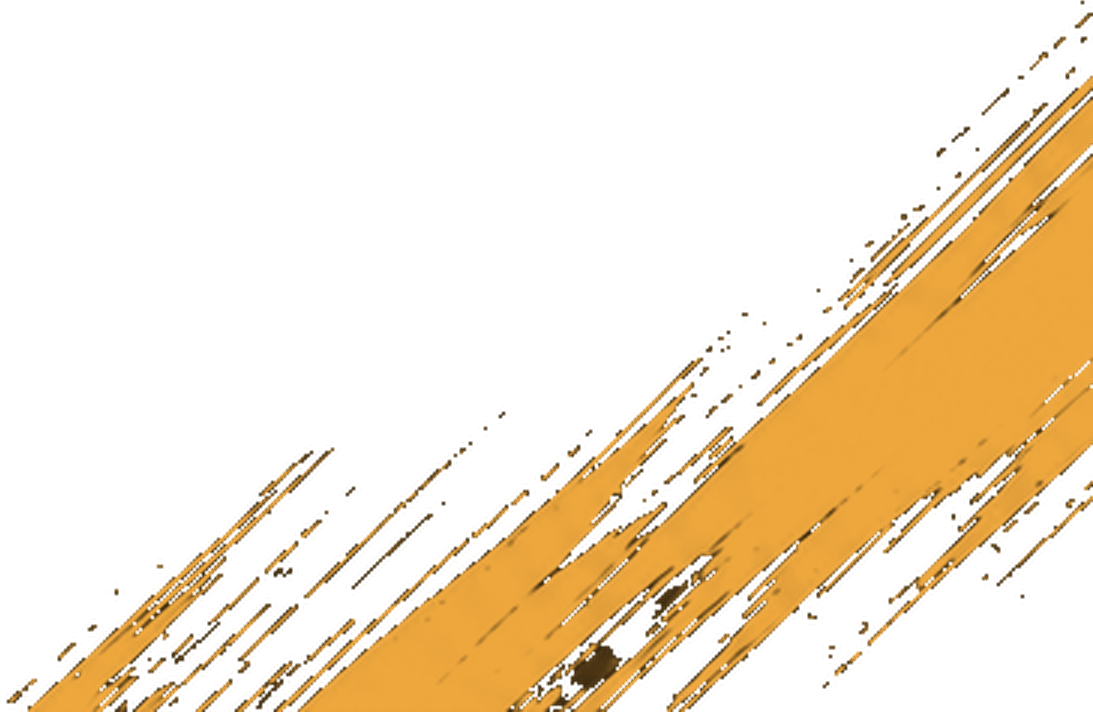
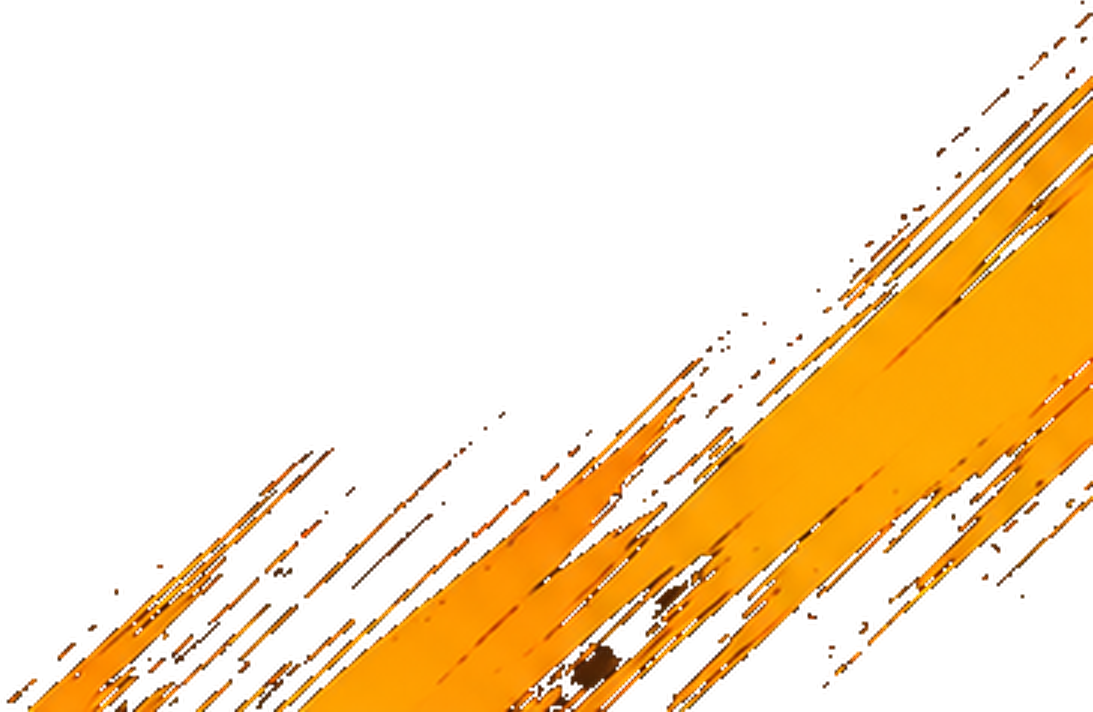
Tarjeta JR: colores y proporciones de la referencia
Claude-Session: https://claude.ai/code/session_01SPZzE7V1rF7zVSmvmfi8Vf

diff --git a/components/jr/JrCard.tsx b/components/jr/JrCard.tsx
@@ -4,7 +4,7 @@ import { FaGithub, FaLinkedinIn, FaWhatsapp } from "react-icons/fa";
 import {
   LuArrowRight,
   LuBrain,
-  LuChartColumnIncreasing,
+  LuChartNoAxesCombined,
   LuCodeXml,
   LuDownload,
   LuGlobe,
@@ -18,16 +18,16 @@ import { contact, services, type Accent } from "./jr-data";
 /** Clases por acento: el turquesa y el ámbar de la marca JR. */
 const accent: Record<Accent, { text: string; tile: string }> = {
   turquesa: {
-    text: "text-[#14E6C5]",
-    tile: "bg-[#14E6C5]/10 shadow-[0_0_22px_-6px_rgba(20,230,197,0.55)] ring-1 ring-[#14E6C5]/25",
+    text: "text-[#00F2EC]",
+    tile: "bg-[#00F2EC]/10 shadow-[0_0_22px_-6px_rgba(0,242,236,0.55)] ring-1 ring-[#00F2EC]/25",
   },
   ambar: {
-    text: "text-[#E5A13B]",
-    tile: "bg-[#E5A13B]/10 shadow-[0_0_22px_-6px_rgba(229,161,59,0.55)] ring-1 ring-[#E5A13B]/25",
+    text: "text-[#FD9B02]",
+    tile: "bg-[#FD9B02]/10 shadow-[0_0_22px_-6px_rgba(253,155,2,0.55)] ring-1 ring-[#FD9B02]/25",
   },
 };
 
-const serviceIcons: IconType[] = [LuCodeXml, LuChartColumnIncreasing, LuBrain, LuSettings];
+const serviceIcons: IconType[] = [LuCodeXml, LuChartNoAxesCombined, LuBrain, LuSettings];
 
 const links: { label: string; href: string; icon: IconType; external: boolean }[] = [
   { label: "GitHub", href: contact.github, icon: FaGithub, external: true },
@@ -67,7 +67,7 @@ export default function JrCard() {
       />
       <div
         aria-hidden="true"
-        className="pointer-events-none absolute right-[6%] top-[22%] h-[20%] w-[22%] -skew-x-[38deg] bg-gradient-to-br from-[#14E6C5]/[0.07] to-transparent"
+        className="pointer-events-none absolute right-[6%] top-[22%] h-[20%] w-[22%] -skew-x-[38deg] bg-gradient-to-br from-[#00F2EC]/[0.07] to-transparent"
       />
 
       {/* Brochazos en las esquinas */}
@@ -76,7 +76,7 @@ export default function JrCard() {
       <Brush src="brochazo-ambar-der" w={595} h={722} className="right-0 top-[12%] hidden w-[16%] lg:block" />
       <Brush src="brochazo-ambar-inf" w={1093} h={712} className="bottom-0 right-0 w-[62%] sm:w-[42%] lg:w-[31%]" />
 
-      <div className="relative mx-auto flex w-full max-w-[1120px] flex-col gap-9 px-5 pb-36 pt-14 sm:gap-11 sm:px-10 sm:pt-20 lg:pb-40">
+      <div className="relative mx-auto flex w-full max-w-[1200px] flex-col gap-9 px-5 pb-36 pt-14 sm:gap-11 sm:px-10 sm:pt-20 lg:px-8 lg:pb-40">
         {/* Encabezado */}
         <header className="flex items-center justify-center gap-4 sm:gap-9">
           <Image
@@ -92,7 +92,7 @@ export default function JrCard() {
             <h1 className="text-[1.6rem] font-bold leading-none tracking-tight sm:text-5xl lg:text-[4rem]">
               Jair Rodríguez
             </h1>
-            <p className="mt-2 text-[0.9rem] font-semibold tracking-[0.2em] text-[#14E6C5] sm:mt-4 sm:text-2xl sm:tracking-[0.25em] lg:text-[2.1rem]">
+            <p className="mt-2 text-[0.9rem] font-semibold tracking-[0.2em] text-[#00F2EC] sm:mt-4 sm:text-2xl sm:tracking-[0.25em] lg:text-[2.1rem]">
               Software Engineer
             </p>
           </div>
@@ -106,30 +106,30 @@ export default function JrCard() {
           >
             Desarrollo soluciones <br className="hidden sm:block" />
             digitales que resuelven <br className="hidden sm:block" />
-            <em className="font-bold text-[#14E6C5]">
+            <em className="font-bold text-[#00F2EC]">
               necesidades reales <br className="hidden sm:block" />
               de negocio.
             </em>
           </h2>
-          <span aria-hidden="true" className="mt-6 block h-1.5 w-28 rounded-full bg-[#E5A13B] sm:w-40" />
+          <span aria-hidden="true" className="mt-6 block h-1.5 w-28 rounded-full bg-[#FD9B02] sm:w-40" />
         </section>
 
         {/* Servicios */}
         <section aria-label="Servicios">
-          <ul className="grid grid-cols-2 gap-3 sm:gap-5 lg:grid-cols-4">
+          <ul className="grid grid-cols-2 gap-3 sm:gap-5 lg:grid-cols-4 lg:gap-6">
             {services.map((s, i) => {
               const Icon = serviceIcons[i];
               const a = accent[s.accent];
               return (
                 <li
                   key={s.title}
-                  className="flex flex-col rounded-[1.6rem] border border-white/[0.08] bg-gradient-to-b from-[#1D1D1D] to-[#161616] p-4 shadow-[0_18px_34px_-20px_rgba(0,0,0,1)] sm:p-6"
+                  className="flex flex-col rounded-[1.6rem] border border-white/[0.1] bg-gradient-to-b from-[#242424] to-[#171717] p-4 shadow-[0_18px_34px_-20px_rgba(0,0,0,1)] sm:p-6"
                 >
-                  <span className={`grid size-12 place-items-center rounded-2xl sm:size-16 ${a.tile} ${a.text}`}>
-                    <Icon aria-hidden="true" strokeWidth={2.2} className="size-7 sm:size-9" />
+                  <span className={`grid size-14 place-items-center rounded-2xl sm:size-[4.5rem] xl:size-20 ${a.tile} ${a.text}`}>
+                    <Icon aria-hidden="true" strokeWidth={2.3} className="size-8 sm:size-11 xl:size-12" />
                   </span>
-                  <h3 className="mt-4 text-[1.02rem] font-bold leading-tight sm:text-[1.45rem] lg:text-[1.35rem] xl:text-[1.5rem]">{s.title}</h3>
-                  <p className="mt-2 text-[0.85rem] font-medium leading-snug text-[#BDBDBD] sm:text-base">{s.description}</p>
+                  <h3 className="mt-4 text-[1.02rem] font-bold leading-tight sm:text-[1.45rem] lg:text-[1.55rem] xl:text-[1.75rem] tracking-tight">{s.title}</h3>
+                  <p className="mt-2 text-[0.88rem] font-medium leading-snug text-[#D6D6D6] sm:text-[1.05rem] xl:text-[1.15rem]">{s.description}</p>
                 </li>
               );
             })}
@@ -142,24 +142,24 @@ export default function JrCard() {
             href={`https://wa.me/${contact.whatsapp}`}
             {...externalProps}
             aria-label="Hablemos por WhatsApp"
-            className="group flex min-h-[5rem] items-center gap-5 rounded-full bg-[#14E6C5] px-7 text-[#0D0D0D] shadow-[0_0_30px_-6px_rgba(20,230,197,0.6)] transition hover:-translate-y-0.5 hover:bg-[#3BEDD0] sm:min-h-24 sm:px-12"
+            className="group flex min-h-[5rem] items-center gap-5 rounded-full bg-[#00F2EC] px-7 text-[#0D0D0D] shadow-[0_0_30px_-6px_rgba(0,242,236,0.6)] transition hover:-translate-y-0.5 hover:bg-[#5EF8F3] sm:min-h-24 sm:px-12 xl:min-h-[6.5rem]"
           >
             <FaWhatsapp aria-hidden="true" className="size-10 shrink-0 sm:size-14" />
             <span aria-hidden="true" className="h-12 w-px shrink-0 bg-[#0D0D0D]/30" />
             <span className="flex-1 leading-none">
-              <span className="block text-base font-bold sm:text-xl">Hablemos por</span>
-              <span className="mt-1 block text-[1.6rem] font-extrabold sm:text-[2rem]">WhatsApp</span>
+              <span className="block text-base font-bold sm:text-xl xl:text-2xl">Hablemos por</span>
+              <span className="mt-1 block text-[1.6rem] font-extrabold sm:text-[2rem] xl:text-[2.3rem]">WhatsApp</span>
             </span>
             <LuArrowRight aria-hidden="true" strokeWidth={2.5} className="size-8 shrink-0 transition group-hover:translate-x-1 sm:size-10" />
           </a>
           <a
             href="/jr/jair-rodriguez.vcf"
             download="Jair-Rodriguez.vcf"
-            className="group flex min-h-[5rem] items-center gap-4 rounded-full border-2 border-[#E5A13B] px-7 shadow-[0_0_24px_-10px_rgba(229,161,59,0.8)] transition hover:-translate-y-0.5 hover:bg-[#E5A13B]/10 sm:min-h-24 sm:px-12"
+            className="group flex min-h-[5rem] items-center gap-4 rounded-full border-2 border-[#D9AE6E] px-7 shadow-[0_0_24px_-10px_rgba(253,155,2,0.8)] transition hover:-translate-y-0.5 hover:bg-[#FD9B02]/10 sm:min-h-24 sm:px-12 xl:min-h-[6.5rem]"
           >
             <LuUserPlus aria-hidden="true" className="size-9 shrink-0 sm:size-11" />
             <span aria-hidden="true" className="h-12 w-px shrink-0 bg-white/40" />
-            <span className="flex-1 whitespace-nowrap text-lg font-bold sm:text-[1.65rem]">Guardar contacto</span>
+            <span className="flex-1 whitespace-nowrap text-lg font-bold sm:text-[1.65rem] xl:text-[1.85rem]">Guardar contacto</span>
             <LuDownload aria-hidden="true" className="size-8 shrink-0 transition group-hover:translate-y-0.5 sm:size-10" />
           </a>
         </section>
@@ -177,7 +177,7 @@ export default function JrCard() {
                   <a
                     href={href}
                     {...(external ? externalProps : {})}
-                    className={`flex items-center gap-2 rounded-xl px-3 py-2 text-[0.95rem] font-semibold transition hover:text-[#14E6C5] sm:gap-4 sm:text-xl lg:flex-row lg:text-lg xl:text-xl ${wide ? "flex-row" : "flex-col sm:flex-row"}`}
+                    className={`flex items-center gap-2 rounded-xl px-3 py-2 text-[0.95rem] font-semibold transition hover:text-[#00F2EC] sm:gap-4 sm:text-xl lg:flex-row lg:text-lg xl:text-[1.35rem] ${wide ? "flex-row" : "flex-col sm:flex-row"}`}
                   >
                     <Icon aria-hidden="true" className="size-8 shrink-0 sm:size-10" />
                     <span className="leading-tight lg:whitespace-nowrap">{label}</span>
